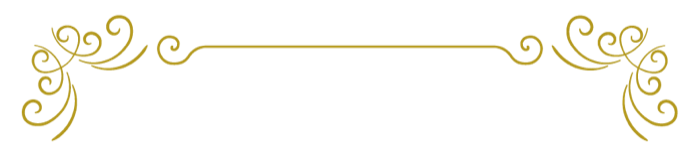
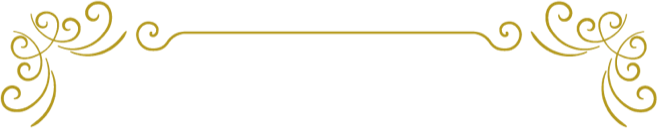
MVプレートの余白を詰める
飾り罫のPNGに透明の余白（上下14px・左右21px）が含まれており、CSSの間隔と
二重に空いていた。中身の外接矩形でトリミングした上で、プレートの上下パディングと
各要素の間隔も詰めた。プレート高さ 283px → 238px。

Changed region(s): [[0.0, 0.0, 1.0, 1.0], [0.0304, 0.9375, 0.0608, 1.0]]

diff --git a/apps/lp/clients/_base-c/page.tsx b/apps/lp/clients/_base-c/page.tsx
@@ -284,7 +284,7 @@ export default function Page() {
   );
   const fvCatch = (
     <h1
-      className="mt-2.5 leading-[1.5]"
+      className="mt-1.5 leading-[1.45]"
       style={{ fontFamily: mincho, fontSize: c.fv.catchSize ?? 26 }}
     >
       {/* 改行位置は config の配列で決める。狭い端末で入り切らない行は折り返させる
@@ -300,9 +300,9 @@ export default function Page() {
   // 単独で置く場合は、角を落とした矩形のすりガラスプレートで受ける（角丸ピルは安っぽく見える）。
   const fvHighlight = !c.fv.highlight ? null : framed ? (
     <>
-      <span className="mt-4 block h-px" style={{ background: `${c.accent}66` }} />
+      <span className="mt-3 block h-px" style={{ background: `${c.accent}66` }} />
       <p
-        className="mt-4 text-[17px] font-bold tracking-[0.1em]"
+        className="mt-3 text-[17px] font-bold tracking-[0.1em]"
         style={{ fontFamily: mincho, color: goldOnWhite }}
       >
         {c.fv.highlight}
@@ -326,7 +326,7 @@ export default function Page() {
   /** キッカー・キャッチ・訴求の3点セット。framed なら1枚のプレートに封じる。 */
   const fvGroup = framed ? (
     <div
-      className="rounded-[3px] border px-4 py-5 text-center backdrop-blur-[3px]"
+      className="rounded-[3px] border px-4 py-3.5 text-center backdrop-blur-[3px]"
       style={{
         background: "rgba(255,255,255,0.9)",
         borderColor: c.accent,
@@ -339,7 +339,7 @@ export default function Page() {
         <img
           src={c.fv.ornament.top}
           alt=""
-          className="mx-auto mb-3 block"
+          className="mx-auto mb-2 block"
           style={{ width: c.fv.ornament.width ?? "72%" }}
         />
       )}
@@ -351,7 +351,7 @@ export default function Page() {
         <img
           src={c.fv.ornament.bottom}
           alt=""
-          className="mx-auto mt-3 block"
+          className="mx-auto mt-2 block"
           style={{ width: c.fv.ornament.width ?? "72%" }}
         />
       )}

diff --git a/apps/lp/clients/forest-terrace-hiroshima/page.tsx b/apps/lp/clients/forest-terrace-hiroshima/page.tsx
@@ -284,7 +284,7 @@ export default function Page() {
   );
   const fvCatch = (
     <h1
-      className="mt-2.5 leading-[1.5]"
+      className="mt-1.5 leading-[1.45]"
       style={{ fontFamily: mincho, fontSize: c.fv.catchSize ?? 26 }}
     >
       {/* 改行位置は config の配列で決める。狭い端末で入り切らない行は折り返させる
@@ -300,9 +300,9 @@ export default function Page() {
   // 単独で置く場合は、角を落とした矩形のすりガラスプレートで受ける（角丸ピルは安っぽく見える）。
   const fvHighlight = !c.fv.highlight ? null : framed ? (
     <>
-      <span className="mt-4 block h-px" style={{ background: `${c.accent}66` }} />
+      <span className="mt-3 block h-px" style={{ background: `${c.accent}66` }} />
       <p
-        className="mt-4 text-[17px] font-bold tracking-[0.1em]"
+        className="mt-3 text-[17px] font-bold tracking-[0.1em]"
         style={{ fontFamily: mincho, color: goldOnWhite }}
       >
         {c.fv.highlight}
@@ -326,7 +326,7 @@ export default function Page() {
   /** キッカー・キャッチ・訴求の3点セット。framed なら1枚のプレートに封じる。 */
   const fvGroup = framed ? (
     <div
-      className="rounded-[3px] border px-4 py-5 text-center backdrop-blur-[3px]"
+      className="rounded-[3px] border px-4 py-3.5 text-center backdrop-blur-[3px]"
       style={{
         background: "rgba(255,255,255,0.9)",
         borderColor: c.accent,
@@ -339,7 +339,7 @@ export default function Page() {
         <img
           src={c.fv.ornament.top}
           alt=""
-          className="mx-auto mb-3 block"
+          className="mx-auto mb-2 block"
           style={{ width: c.fv.ornament.width ?? "72%" }}
         />
       )}
@@ -351,7 +351,7 @@ export default function Page() {
         <img
           src={c.fv.ornament.bottom}
           alt=""
-          className="mx-auto mt-3 block"
+          className="mx-auto mt-2 block"
           style={{ width: c.fv.ornament.width ?? "72%" }}
         />
       )}
